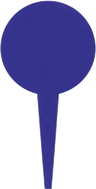
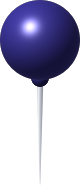
Новые картинки KiriFesTung: пупырка, мячик, булавки, пробка, сукно стола, бумага и лён, «пустой лист», «О программе»
- бумага и лён из светлых плиток переведены в полупрозрачный узор: ложатся на любую тему
- сукно стола для бросков - нарисованное, края темнее; ворс точками больше не рисуется каждый кадр
- булавки обрезаны по рисунку: головка - в точке крепления
- ссылки README - на новое имя репозитория
- Android: пароль ключа без случайных пробелов и переносов

Claude-Session: https://claude.ai/code/session_01S7PhmJQgLmFb8cBEfDmxmN

diff --git a/stungkir/dicetable.py b/stungkir/dicetable.py
@@ -15,6 +15,7 @@ import random
 
 from PySide6.QtCore import QPointF, QRectF, QSize, Qt, QTimer
 from PySide6.QtGui import (
+    QBrush,
     QColor, QFont, QLinearGradient, QPainter, QPainterPath, QPen, QPolygonF, QRadialGradient, QTransform,
 )
 from PySide6.QtWidgets import QSizePolicy, QWidget
@@ -355,11 +356,22 @@ class DiceTable(QWidget):
         p.setBrush(wood)
         p.drawRoundedRect(rect, 14, 14)
         felt_rect = rect.adjusted(10, 10, -10, -10)
-        felt = QRadialGradient(felt_rect.center(), max(felt_rect.width(), felt_rect.height()) * 0.7)
-        felt.setColorAt(0, FELT.lighter(118))
-        felt.setColorAt(1, FELT_DARK)
+        from .artwork import scaled
+        cloth = scaled("texture-felt", 256, self.devicePixelRatioF())
+        if not cloth.isNull():                     # сукно - нарисованное, края стола чуть темнее
+            p.setBrush(QBrush(cloth))
+            p.drawRoundedRect(felt_rect, 9, 9)
+            felt = QRadialGradient(felt_rect.center(), max(felt_rect.width(), felt_rect.height()) * 0.7)
+            felt.setColorAt(0, QColor(0, 0, 0, 0))
+            felt.setColorAt(1, QColor(FELT_DARK.red(), FELT_DARK.green(), FELT_DARK.blue(), 190))
+        else:
+            felt = QRadialGradient(felt_rect.center(), max(felt_rect.width(), felt_rect.height()) * 0.7)
+            felt.setColorAt(0, FELT.lighter(118))
+            felt.setColorAt(1, FELT_DARK)
         p.setBrush(felt)
         p.drawRoundedRect(felt_rect, 9, 9)
+        if not cloth.isNull():
+            return
         rnd = random.Random(11)                        # ворс сукна - один и тот же узор
         p.setBrush(QColor(255, 255, 255, 10))
         for _ in range(int(felt_rect.width() * felt_rect.height() / 260)):

diff --git a/README.md b/README.md
@@ -1,9 +1,9 @@
 <p align="center"><img src="docs/banner.png" alt="StungKir - писательский блокнот для длинных текстов"></p>
 
 <p align="center">
-<a href="https://github.com/KiriFestung/StungKir/releases/tag/windows-latest"><b>Windows</b></a> ·
-<a href="https://github.com/KiriFestung/StungKir/releases/tag/linux-latest"><b>Linux (Flatpak)</b></a> ·
-<a href="https://github.com/KiriFestung/StungKir/releases/tag/android-latest"><b>Android</b></a> ·
+<a href="https://github.com/KiriFestung/StungKir-notepad/releases/tag/windows-latest"><b>Windows</b></a> ·
+<a href="https://github.com/KiriFestung/StungKir-notepad/releases/tag/linux-latest"><b>Linux (Flatpak)</b></a> ·
+<a href="https://github.com/KiriFestung/StungKir-notepad/releases/tag/android-latest"><b>Android</b></a> ·
 <a href="docs/РУКОВОДСТВО.md">Руководство</a> ·
 <a href="CHANGELOG.md">Что нового</a>
 </p>
@@ -16,10 +16,10 @@
 
 | Где | Что скачать | |
 |---|---|---|
-| **Windows 10 и 11** | [StungKir-Setup-1.0.0.exe](https://github.com/KiriFestung/StungKir/releases/download/windows-latest/StungKir-Setup-1.0.0.exe) | установщик |
-| **Windows, с флешки** | [StungKir-Windows-portable.zip](https://github.com/KiriFestung/StungKir/releases/download/windows-latest/StungKir-Windows-portable.zip) | без установки и без прав администратора, тексты - на флешке |
-| **Linux** | [StungKir.flatpak](https://github.com/KiriFestung/StungKir/releases/download/linux-latest/StungKir.flatpak) | любой дистрибутив; для Debian и Ubuntu есть ещё `install.sh` (ниже) |
-| **Android** | [StungKir-Android.apk](https://github.com/KiriFestung/StungKir/releases/download/android-latest/StungKir-Android.apk) | пишет в ту же папку, что и компьютер; [как связать](docs/ТЕЛЕФОН.md) |
+| **Windows 10 и 11** | [StungKir-Setup-1.0.0.exe](https://github.com/KiriFestung/StungKir-notepad/releases/download/windows-latest/StungKir-Setup-1.0.0.exe) | установщик |
+| **Windows, с флешки** | [StungKir-Windows-portable.zip](https://github.com/KiriFestung/StungKir-notepad/releases/download/windows-latest/StungKir-Windows-portable.zip) | без установки и без прав администратора, тексты - на флешке |
+| **Linux** | [StungKir.flatpak](https://github.com/KiriFestung/StungKir-notepad/releases/download/linux-latest/StungKir.flatpak) | любой дистрибутив; для Debian и Ubuntu есть ещё `install.sh` (ниже) |
+| **Android** | [StungKir-Android.apk](https://github.com/KiriFestung/StungKir-notepad/releases/download/android-latest/StungKir-Android.apk) | пишет в ту же папку, что и компьютер; [как связать](docs/ТЕЛЕФОН.md) |
 
 Сборки обновляются сами после каждого изменения и перед выкладкой проходят больше трёхсот проверок - и на Linux, и на Windows.
 
@@ -87,7 +87,7 @@ bash install.sh
 
 ### Flatpak (любой Linux)
 
-Готовый `.flatpak` лежит в [релизах](https://github.com/KiriFestung/StungKir/releases/tag/linux-latest):
+Готовый `.flatpak` лежит в [релизах](https://github.com/KiriFestung/StungKir-notepad/releases/tag/linux-latest):
 
 ```bash
 flatpak remote-add --user --if-not-exists flathub https://flathub.org/repo/flathub.flatpakrepo
@@ -99,7 +99,7 @@ flatpak run page.codeberg.kirifestung.StungKir
 
 ### Windows 10 и 11
 
-Скачать `StungKir-Setup-1.0.0.exe` из [релизов](https://github.com/KiriFestung/StungKir/releases/tag/windows-latest) и запустить. Словарь и шрифты уже внутри. Windows может предупредить «неизвестный издатель» — программа не подписана платным сертификатом; «Подробнее → Выполнить в любом случае».
+Скачать `StungKir-Setup-1.0.0.exe` из [релизов](https://github.com/KiriFestung/StungKir-notepad/releases/tag/windows-latest) и запустить. Словарь и шрифты уже внутри. Windows может предупредить «неизвестный издатель» — программа не подписана платным сертификатом; «Подробнее → Выполнить в любом случае».
 
 Переносная версия для флешки (без установки и без прав администратора): `StungKir-Windows-portable.zip` - распаковать на флешку и запускать `StungKir.exe`. Пока рядом с ним лежит `portable.txt`, тексты, копии и настройки хранятся там же, на флешке, а на чужом компьютере ничего не остаётся.
 
@@ -108,7 +108,7 @@ flatpak run page.codeberg.kirifestung.StungKir
 ### Через pip
 
 ```bash
-pipx install git+https://github.com/KiriFestung/StungKir.git
+pipx install git+https://github.com/KiriFestung/StungKir-notepad.git
 ```
 
 macOS официально не поддерживается.
